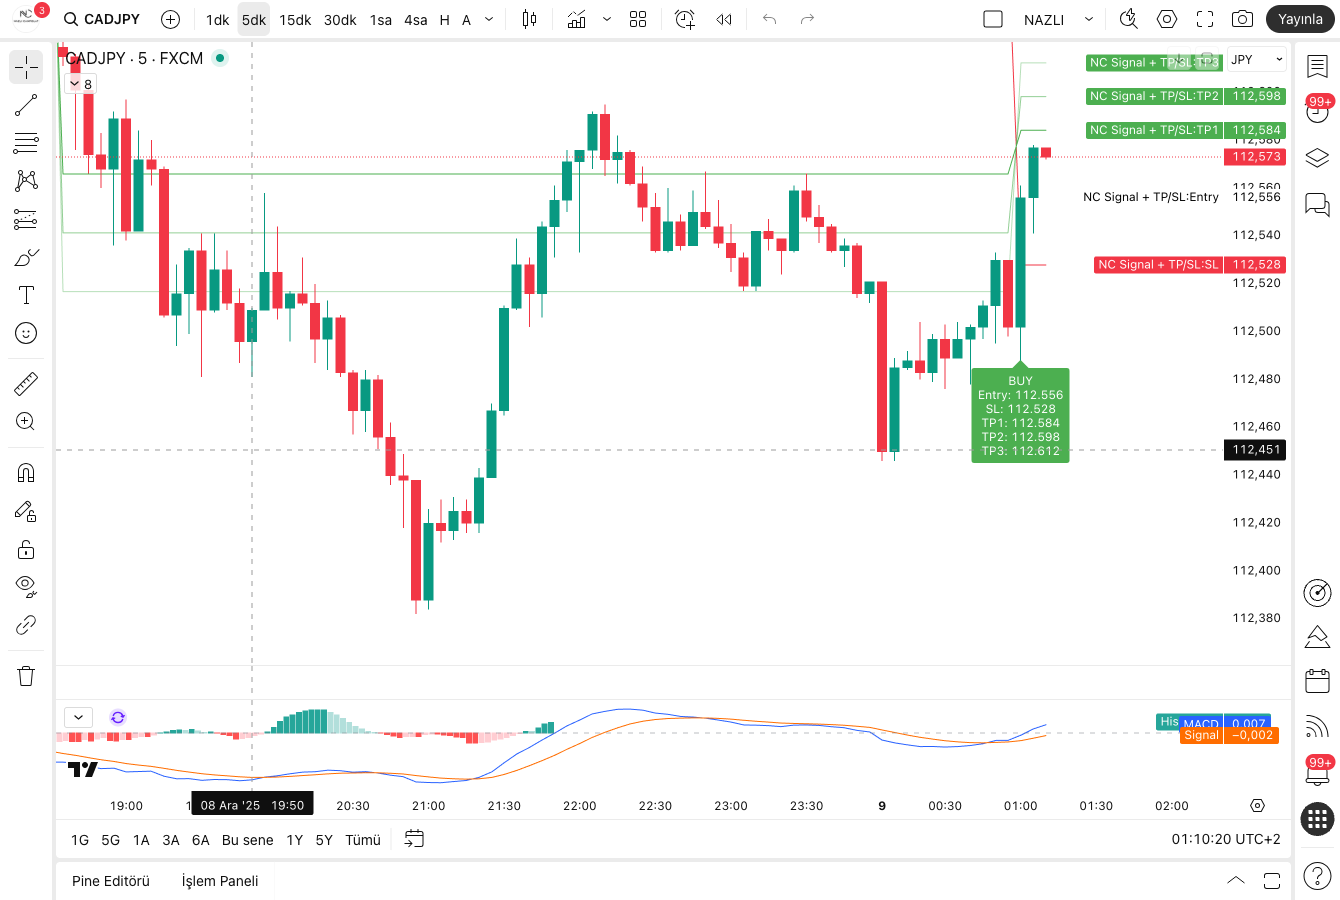
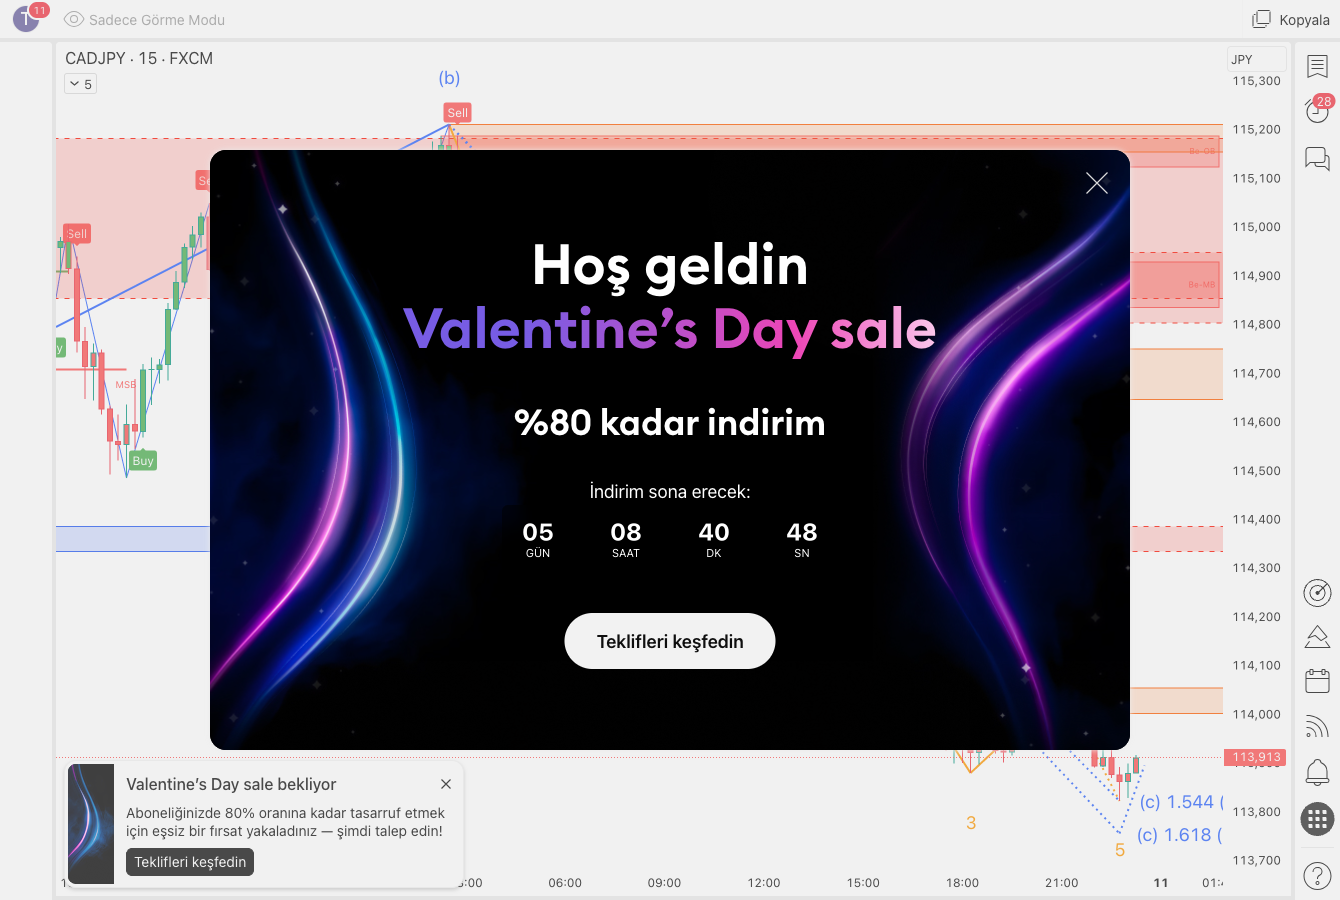
add

diff --git a/services/puppeteer.js b/services/puppeteer.js
@@ -39,39 +39,39 @@ require('dotenv').config('../.env');
 
     // 4. Hedef Grafik URL'sine Git
     // Örnek: https://tr.tradingview.com/chart/M3C0dE/?symbol=BINANCE%3ABTCUSDT
-    const chartUrl = 'https://tr.tradingview.com/chart/4atOlnQu?symbol=' + encodeURIComponent(currency); 
+    const chartUrl = 'https://tr.tradingview.com/chart/ASXc6cgm?symbol=' + encodeURIComponent(currency); 
     
     console.log('Grafiğe gidiliyor...');
     await page.goto(chartUrl);
 
     // 5. Grafiğin Tam Yüklenmesini Bekle
     // Grafik mumlarının bulunduğu ana canvas elementinin yüklenmesini bekleriz.
-    try {        
+    // try {        
 
-        await new Promise(r => setTimeout(r, 4000));
-        // // --- YENİ EKLENEN KISIM: GRAFİĞİ SÜRÜKLEME ---
-        console.log('Grafik sola sürükleniyor...');
+    //     await new Promise(r => setTimeout(r, 4000));
+    //     // // --- YENİ EKLENEN KISIM: GRAFİĞİ SÜRÜKLEME ---
+    //     console.log('Grafik sola sürükleniyor...');
         
-        // Ekranın ortasını hesapla
-        const viewport = page.viewport();
-        const startX = viewport.width / 3;
-        const startY = viewport.height / 2;
+    //     // Ekranın ortasını hesapla
+    //     const viewport = page.viewport();
+    //     const startX = viewport.width / 3;
+    //     const startY = viewport.height / 2;
 
-        // Fareyi ortaya getir ve tıkla
-        await page.mouse.move(startX, startY);
-        await page.mouse.down();
+    //     // Fareyi ortaya getir ve tıkla
+    //     await page.mouse.move(startX, startY);
+    //     await page.mouse.down();
 
-        // Fareyi sola doğru sürükle (Örn: 400 piksel sola)
-        // steps: 10 hareketi daha doğal yapar ve TradingView'in algılamasını sağlar
-        await page.mouse.move(startX - 200, startY, { steps: 100 }); 
+    //     // Fareyi sola doğru sürükle (Örn: 400 piksel sola)
+    //     // steps: 10 hareketi daha doğal yapar ve TradingView'in algılamasını sağlar
+    //     await page.mouse.move(startX - 200, startY, { steps: 100 }); 
         
-        // Fareyi bırak
-        await page.mouse.up();
+    //     // Fareyi bırak
+    //     await page.mouse.up();
         
-    } catch (e) {
-        console.log(e);
-        console.log('Zaman aşımı veya seçici bulunamadı.');
-    }
+    // } catch (e) {
+    //     console.log(e);
+    //     console.log('Zaman aşımı veya seçici bulunamadı.');
+    // }
 
     // 6. İstenmeyen Elementleri Gizle (Opsiyonel)
     // Örneğin sağdaki izleme listesini veya alttaki paneli gizlemek isterseniz CSS manipülasyonu yapabilirsiniz.
@@ -83,16 +83,16 @@ require('dotenv').config('../.env');
     */
 
     // 7. Ekran Görüntüsünü Al ve Kaydet
-    const selector = 'body > div.js-rootresizer__contents > div';
-    const element = await page.$(selector);
-    if(element) {
-        await element.screenshot({ path: 'tradingview_grafik.png' });
-    } else {
-        console.log(`Grafik alanı ('${selector}') bulunamadı, tam sayfa ekran görüntüsü alınıyor.`);
-        await page.screenshot({ path: 'tradingview_grafik.png', fullPage: false });
-    }
+    // const selector = 'body > div.js-rootresizer__contents > div';
+    // const element = await page.$(selector);
+    // if(element) {
+    //     await element.screenshot({ path: 'tradingview_grafik.png' });
+    // } else {
+    //     console.log(`Grafik alanı ('${selector}') bulunamadı, tam sayfa ekran görüntüsü alınıyor.`);
+    //     await page.screenshot({ path: 'tradingview_grafik.png', fullPage: false });
+    // }
 
-    console.log('Ekran görüntüsü kaydedildi: tradingview_grafik.png');
+    // console.log('Ekran görüntüsü kaydedildi: tradingview_grafik.png');
 
     // await browser.close();
 })("FX:CADJPY");

diff --git a/services/chart.js b/services/chart.js
@@ -162,13 +162,25 @@ class ChartService {
         if (closeButton) {
           log('info', `Popup detected, closing it for ${symbol}`);
           await closeButton.click();
-          // Wait a bit after closing popup
-          await new Promise(r => setTimeout(r, 500));
         }
       } catch (error) {
         log('warn', `Error checking/closing popup for ${symbol}`, { error: error.message });
         // Continue even if popup handling fails
       }
+
+
+      const closeWarningSelector = '#overlap-manager-root > div:nth-child(2) > div > div.wrap-VeoIyDt4 > div > div > div.modal-AIyNn2YU.radius-AIyNn2YU.dialog-VeoIyDt4.dialog-aRAWUDhF.rounded-aRAWUDhF > div > div.closeButtonWrapper-AIyNn2YU > button';
+
+          // Uyarı penceresi varsa kapat
+      try {
+          await page.waitForSelector(closeWarningSelector, { timeout: 5000 });
+          await page.click(closeWarningSelector);
+          console.log('Uyarı penceresi kapatıldı.');
+      } catch (e) {
+          console.log('Uyarı penceresi bulunamadı veya zaman aşımına uğradı.');
+      }
+
+      await new Promise(r => setTimeout(r, 500));
       
       log('info', `Chart loaded, dragging for ${symbol}`);
       
